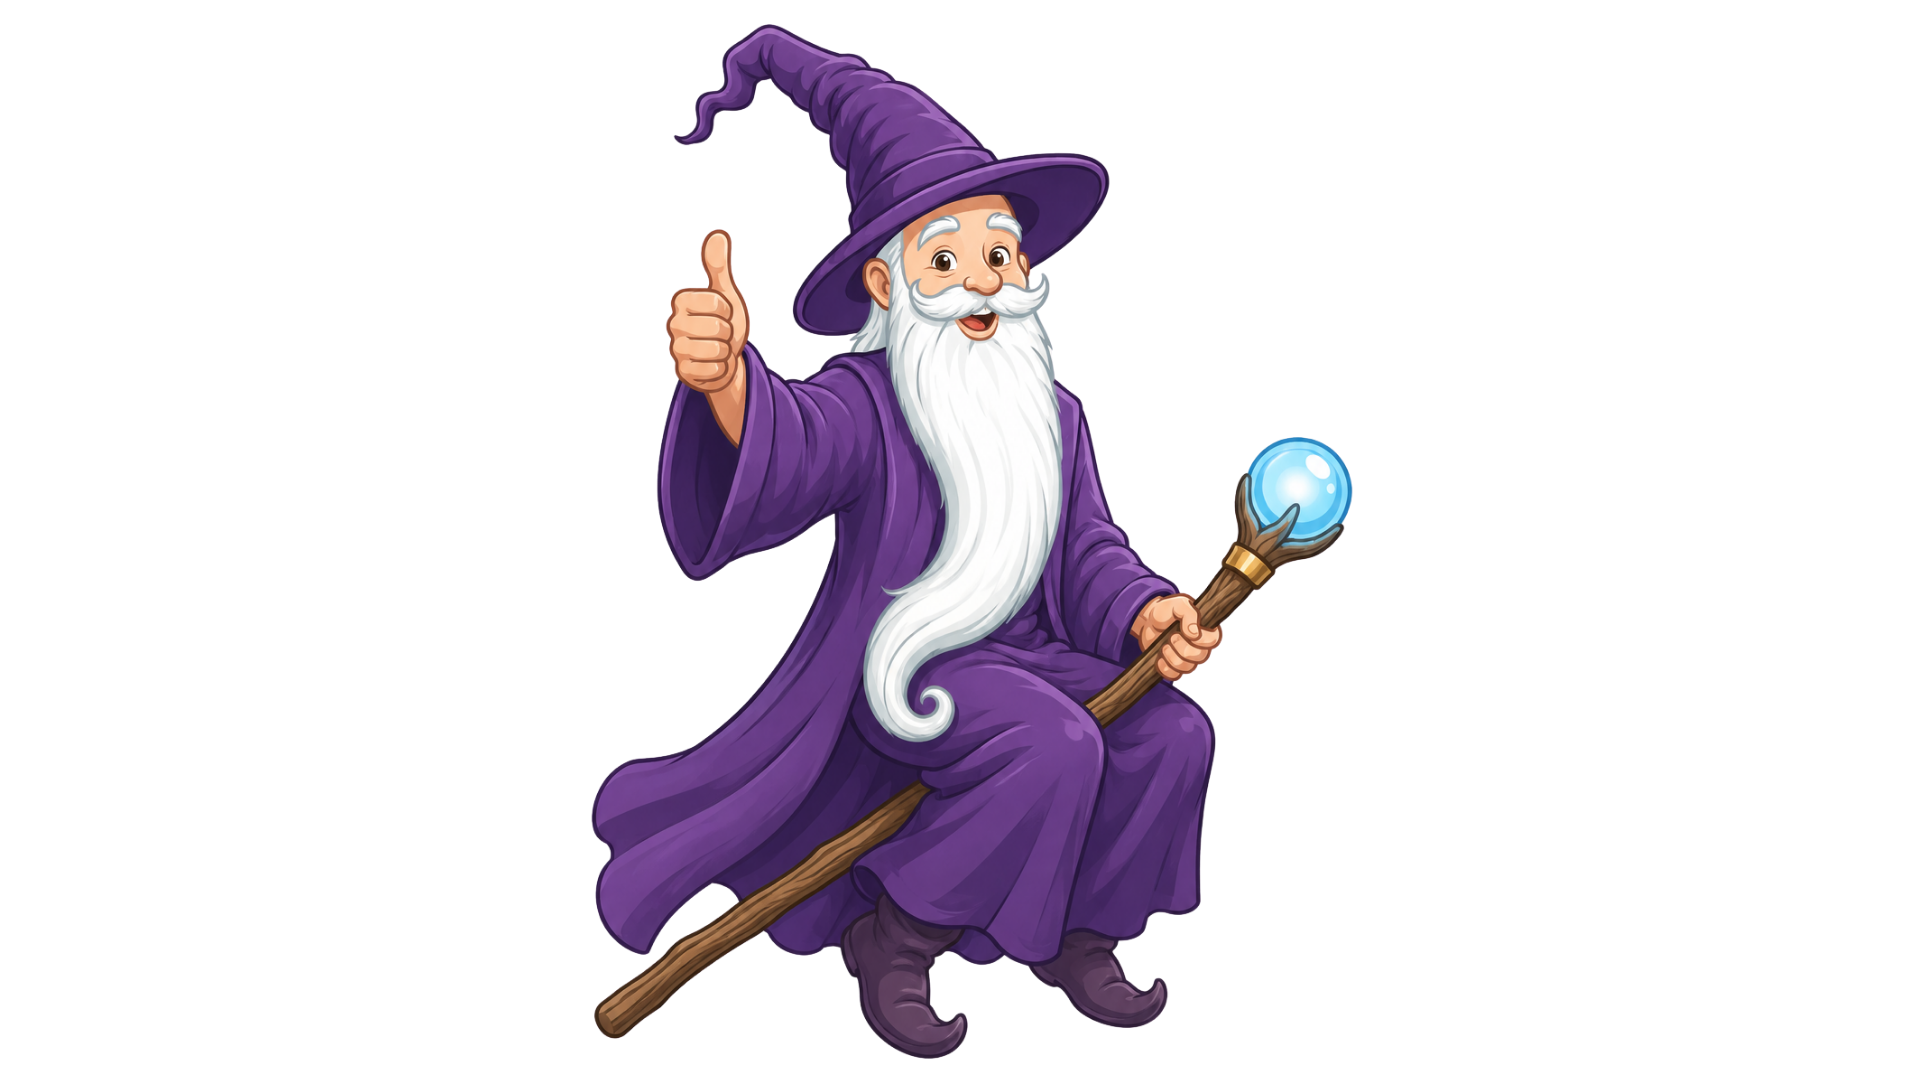
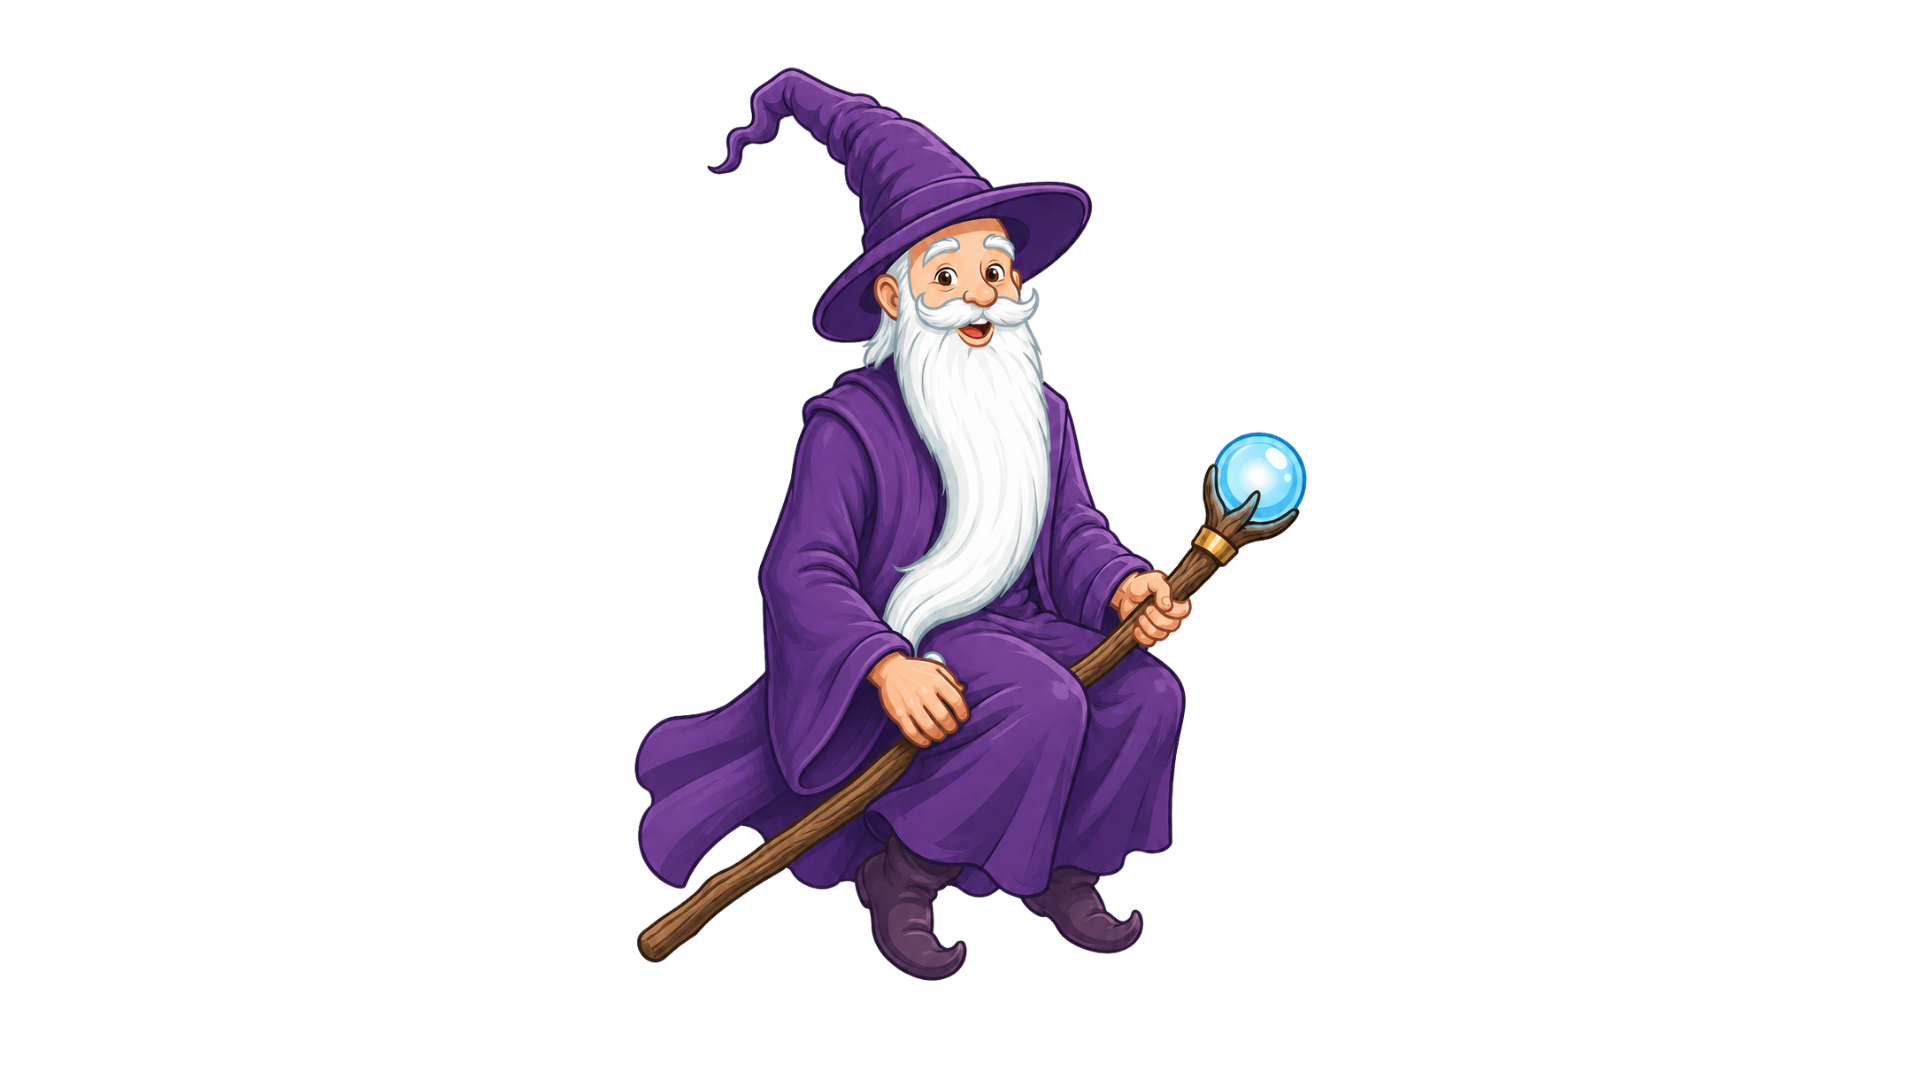
update game.js

Changed region(s): [[0.2812, 0.0, 0.7188, 0.9778]]

diff --git a/style.css b/style.css
@@ -232,15 +232,16 @@ body {
 /* --- GAME FIELD & SLOTS --- */
 .game-field {
     position: absolute;
-    top: 0;
+    top: 190px;          /* below instruction HUD (15 + 172 = 187 px) */
     bottom: 0;
-    left: 200px;
-    right: 200px;
+    padding-bottom: 180px;  /* shifts the flex centre ~90 px upward */
+    left: 120px;         /* narrower margins so bigger stones fit cleanly */
+    right: 120px;
     z-index: 5;
     display: flex;
     justify-content: center;
     align-items: center;
-    pointer-events: none; /* Allow events to pass to absolute children */
+    pointer-events: none;
 }
 
 /* The Swapping Slots Container */
@@ -263,8 +264,8 @@ body {
 
 /* The underlying slot target - COMPLETELY INVISIBLE as per user instructions */
 .slot-target {
-    width: 440px;
-    height: 280px;
+    width: 500px;
+    height: 320px;
     position: relative;
     border-radius: 40px;
     background: transparent;
@@ -288,12 +289,12 @@ body {
 /* Order Operator Sign Separators */
 .slot-separator {
     align-self: center;
-    margin: 0 20px;
+    margin: 0 10px;
     transition: all 0.4s ease;
 }
 
 .sep-arrow {
-    width: 80px;
+    width: 65px;
     height: auto;
     opacity: 1.0;
     display: block;
@@ -326,8 +327,8 @@ body {
 }
 
 .number-step {
-    width: 440px;
-    height: 280px;
+    width: 500px;
+    height: 320px;
     position: absolute;
     cursor: grab;
     z-index: 50;
@@ -384,11 +385,11 @@ body {
 /* Eyes Positioning */
 .naughty-eyes-container {
     position: absolute;
-    top: 118px;
+    top: 135px;
     left: 44%;
     transform: translate(-50%, -50%);
-    width: 130px;
-    height: 52px;
+    width: 148px;
+    height: 59px;
     z-index: 60;
     pointer-events: none;
 }
@@ -418,7 +419,7 @@ body {
 /* The Numerals Container */
 .digit-holder {
     position: absolute;
-    top: 168px;
+    top: 192px;
     left: 45%;
     transform: translate(-50%, -50%);
     display: flex;
@@ -432,7 +433,7 @@ body {
 .digit {
     font-family: 'Lilita One', sans-serif; /* Swapped to Fredoka to achieve target friendly rounded curves */
     font-weight: 400;
-    font-size: 75px;
+    font-size: 85px;
     color: #ffffff;
     text-shadow: 0 4px 10px rgba(0,0,0,0.5);
     display: inline-block;
@@ -633,7 +634,7 @@ body {
     position: absolute;
     top: 10px;
     left: 48%;
-    width: 260px;
+    width: 295px;
     height: auto;
     display: none;
     z-index: 70;

diff --git a/game.js b/game.js
@@ -606,8 +606,8 @@ function blinkEyes(el) {
 function roamStone(el) {
     if (!el || !el.classList.contains("scattered")) return;
     // Stone 440×280 px — keep fully within 1920×1080 (20 px margin each side)
-    const x   = 20  + Math.random() * (1920 - 440 - 40);  // 20–1460 px
-    const y   = 195 + Math.random() * (1080 - 280 - 215); // 195–585 px (below banner)
+    const x   = 20  + Math.random() * (1920 - 500 - 40);  // 20–1380 px
+    const y   = 195 + Math.random() * (1080 - 320 - 195); // 195–565 px (below banner, stone 320 px tall)
     const dur = 2200 + Math.random() * 1800;               // 2.2–4 s per move
     el.style.transition = `left ${dur}ms ease-in-out, top ${dur}ms ease-in-out`;
     el.style.left = `${x}px`;
@@ -1301,11 +1301,11 @@ function clearNudgeTimer() {
     clearNudgeElements();
 }
 
-// Stone center in game coords (stones are 440×280, positioned via style.left/top)
+// Stone center in game coords (stones are 500×320, positioned via style.left/top)
 function stoneCenter(el) {
     return {
-        x: parseFloat(el.style.left) + 220,
-        y: parseFloat(el.style.top)  + 140
+        x: parseFloat(el.style.left) + 250,
+        y: parseFloat(el.style.top)  + 160
     };
 }
 
@@ -1659,7 +1659,7 @@ function playNeelJumps(onDone) {
     const targets = gameState.slots.map((_, i) => {
         const p = getSlotPos(i);
         return {
-            x: p.x + 220 - DW / 2,
+            x: p.x + 250 - DW / 2,
             y: p.y + 70 - Math.round(DH * 0.68)
         };
     });